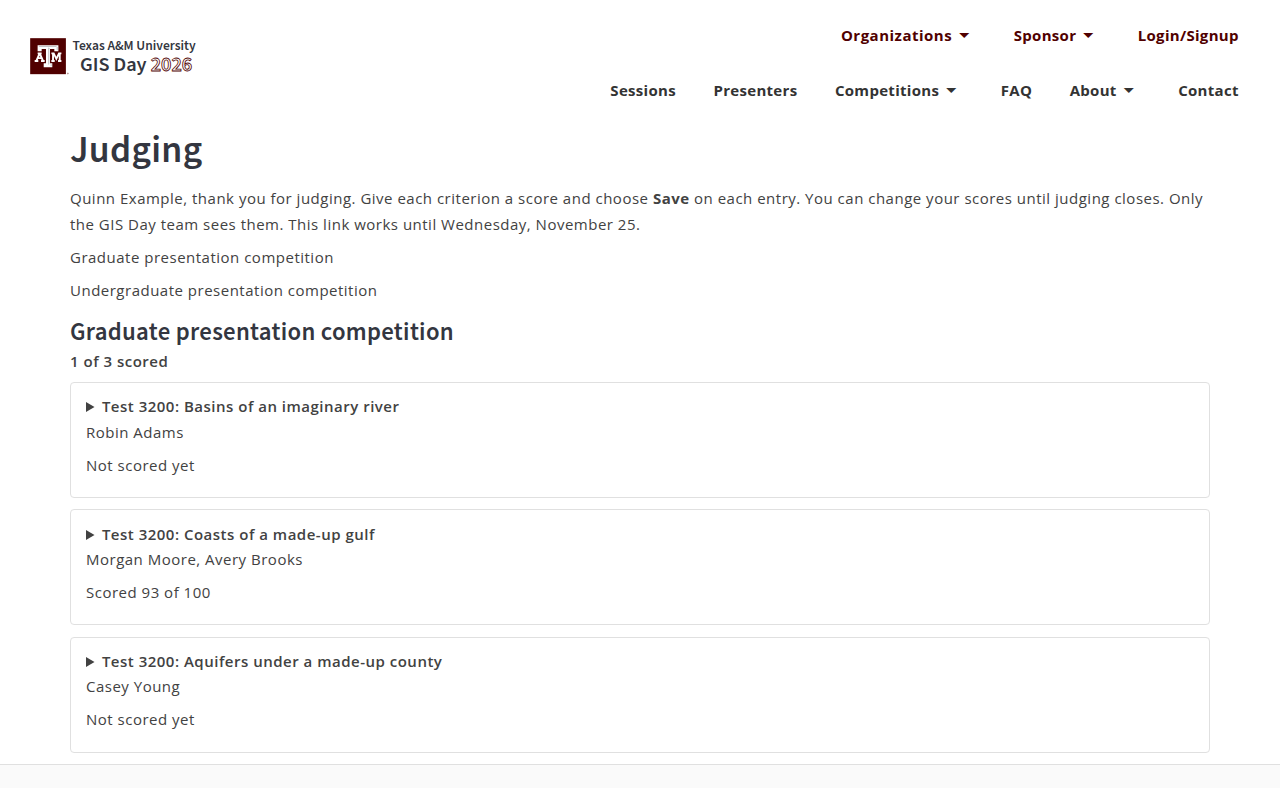
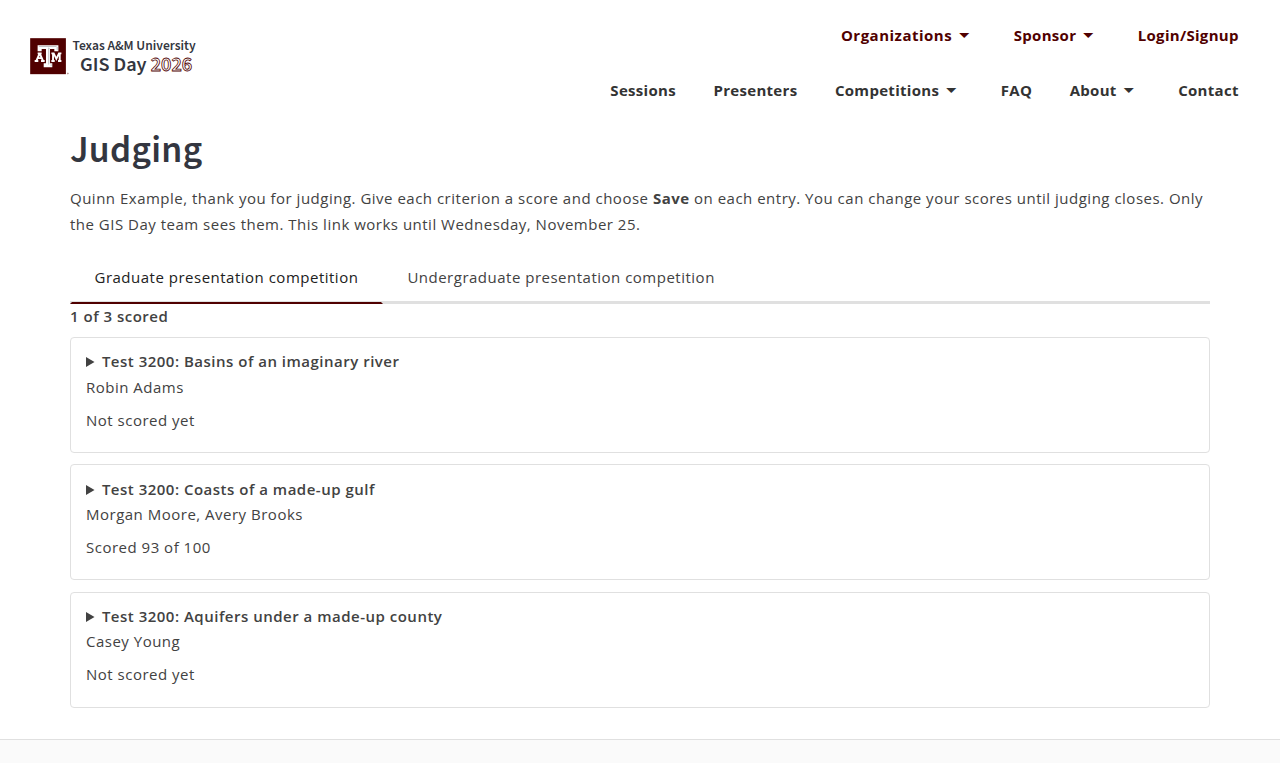
docs(gisday): After images of a judge's page with the tabs' own styles (#3200)
Batch 131's four after images taken again at ae63c3abb (lab, batch 133), the same made-up judge and
entries, and their alt text says tabs. At 390 and 360 the two tabs do not fit: the page is 637 pixels
wide and the second tab is cut off at the right edge.

diff --git a/docs/releases/unreleased/3200-collapse-competitions.md b/docs/releases/unreleased/3200-collapse-competitions.md
@@ -20,7 +20,7 @@ judge scoring one had to scroll past everything else
 | | |
 | --- | --- |
 | Before: a made-up judge's page, both competitions open, every entry and criterion one after another | ![The Judging page: the graduate presentation competition, 1 of 2 scored, its two entries with seven criteria each, then the undergraduate competition and its two entries](../screenshots/3200-collapse-competitions/before-judge-page.png) |
-| After: the same made-up judge, the graduate competition's tab open, its three entries closed, by first author (Adams, Moore, Young) | ![The Judging page: the two competitions' names above, then the graduate presentation competition, 1 of 3 scored, and three closed entries, each showing its title, authors and Not scored yet or Scored 93 of 100](../screenshots/3200-collapse-competitions/after-tabs.png) |
-| After: one entry opened, its saved score in the boxes | ![The graduate competition with its second entry open: its abstract, the seven criteria with their scores and levels, the comment, Scored 93 of 100 points and Save, between the two closed entries](../screenshots/3200-collapse-competitions/after-entry-open.png) |
-| After: the undergraduate competition chosen | ![The Judging page with the undergraduate presentation competition shown, 0 of 2 scored, and its two closed entries, by first author (Ellis, Pupil)](../screenshots/3200-collapse-competitions/after-other-tab.png) |
-| After: on a phone, 390 pixels wide | ![The Judging page on a phone: the two competitions' names, then the graduate competition, 1 of 3 scored, and its three closed entries, nothing past the right edge](../screenshots/3200-collapse-competitions/after-tabs-phone.png) |
+| After: the same made-up judge, the graduate competition's tab open, its three entries closed, by first author (Adams, Moore, Young) | ![The Judging page: a tab for each competition, the graduate presentation competition's chosen and underlined in maroon, then 1 of 3 scored and three closed entries, each showing its title, authors and Not scored yet or Scored 93 of 100](../screenshots/3200-collapse-competitions/after-tabs.png) |
+| After: one entry opened, its saved score in the boxes | ![The graduate competition's tab with its second entry open, its form indented as its heading is: its abstract, the seven criteria with their scores and levels, the comment, Scored 93 of 100 points and Save, between the two closed entries](../screenshots/3200-collapse-competitions/after-entry-open.png) |
+| After: the undergraduate competition chosen | ![The Judging page with the undergraduate presentation competition's tab chosen and underlined, 0 of 2 scored, and its two closed entries, by first author (Ellis, Pupil)](../screenshots/3200-collapse-competitions/after-other-tab.png) |
+| After: on a phone, 390 pixels wide | ![The Judging page on a phone: the graduate competition's tab chosen and underlined, the undergraduate tab cut off at the right edge, then 1 of 3 scored and its three closed entries](../screenshots/3200-collapse-competitions/after-tabs-phone.png) |
